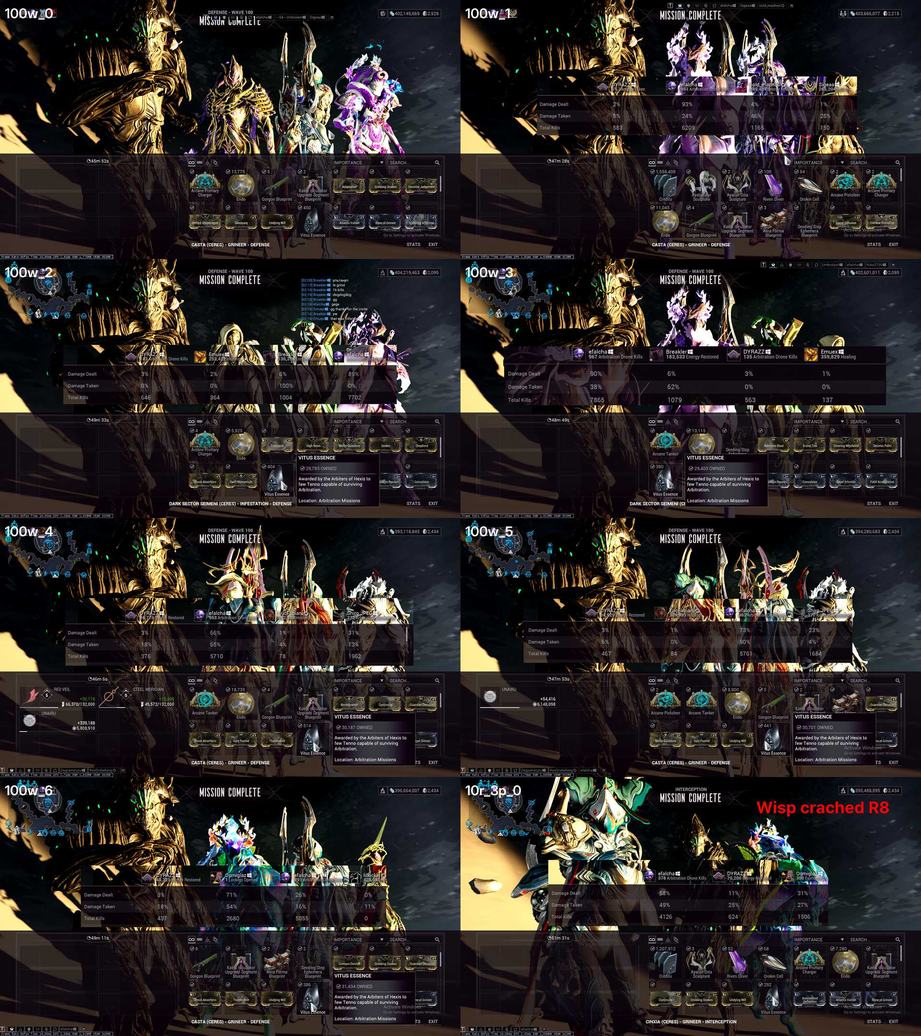
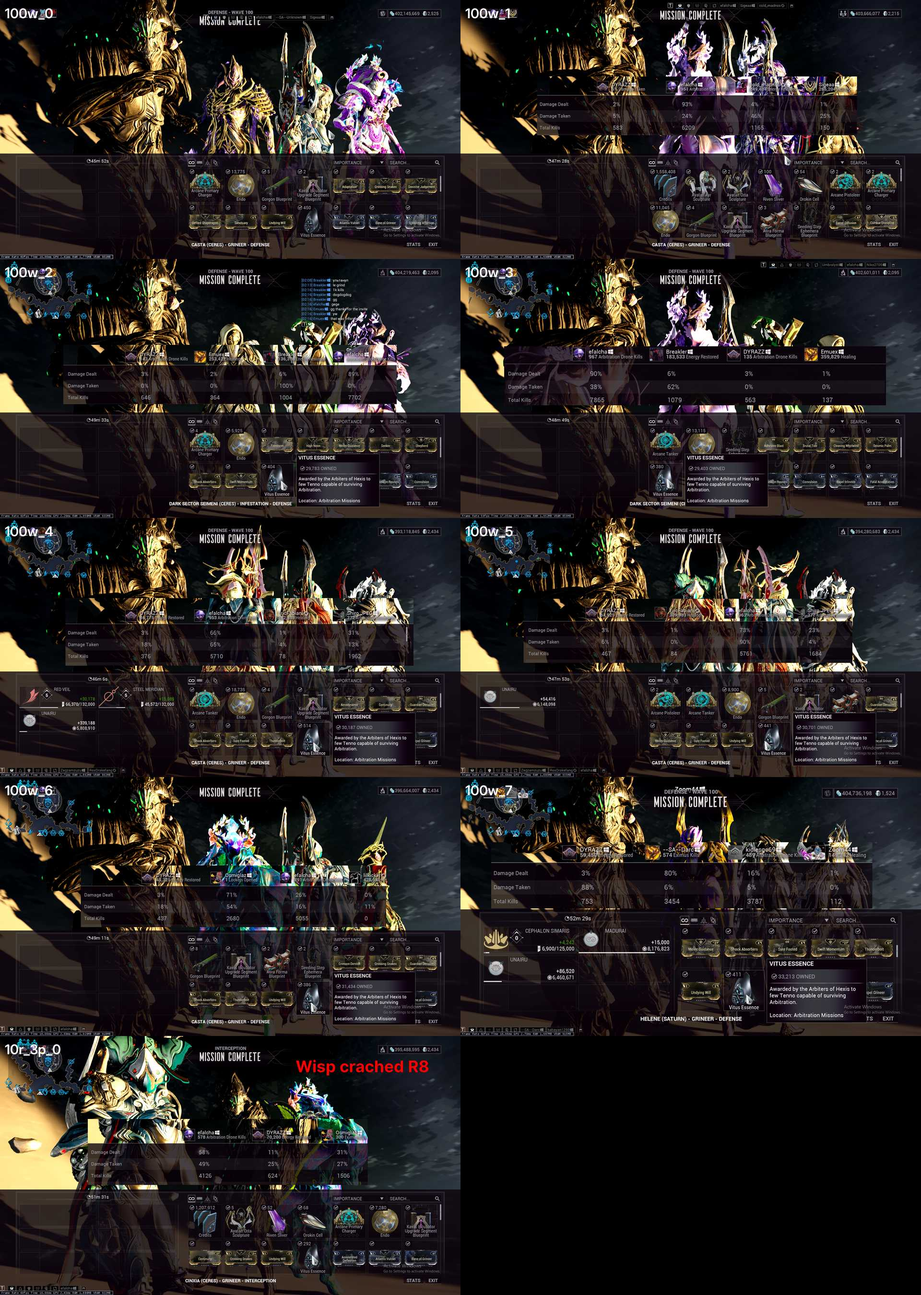
Fix Chroma run and added kills

diff --git a/README.md b/README.md
@@ -1,10 +1,19 @@
-|       |   saryn |   wisp |   mirage |   chroma |   volt |   octavia |   total |
-|:------|--------:|-------:|---------:|---------:|-------:|----------:|--------:|
-| 100w  |       3 |      8 |        4 |        7 |      0 |         0 |      22 |
-| 200w  |       0 |      0 |        0 |        0 |      0 |         0 |       0 |
-| 10r   |       4 |      0 |        0 |        1 |      0 |         0 |       5 |
-| 20r   |       1 |      0 |        0 |        0 |      0 |         0 |       1 |
-| 30r   |       1 |      1 |        2 |        0 |      1 |         0 |       5 |
-| total |      12 |     11 |       10 |        8 |      3 |         0 |      44 |
+|       |   saryn |   mirage |   wisp |   chroma |   volt |   octavia |   total |
+|:------|--------:|---------:|-------:|---------:|-------:|----------:|--------:|
+| 100w  |       3 |        4 |      7 |        8 |      0 |         0 |      22 |
+| 200w  |       0 |        0 |      0 |        0 |      0 |         0 |       0 |
+| 10r   |       4 |        0 |      0 |        1 |      0 |         0 |       5 |
+| 20r   |       1 |        0 |      0 |        0 |      0 |         0 |       1 |
+| 30r   |       1 |        2 |      1 |        0 |      1 |         0 |       5 |
+| total |      12 |       10 |     10 |        9 |      3 |         0 |      44 |
 
-Updated 2024-08-04 22:45 UTC+0
+|         | Average Kill per 100w   | Average Kill per 10r   |
+|:--------|:------------------------|:-----------------------|
+| chroma  | 546                     | 624                    |
+| mirage  | 2347                    | 2793                   |
+| octavia | -                       | -                      |
+| saryn   | 2829                    | 4582                   |
+| volt    | -                       | 1570                   |
+| wisp    | 246                     | 139                    |
+
+Updated 2024-08-05 06:59 UTC+0
